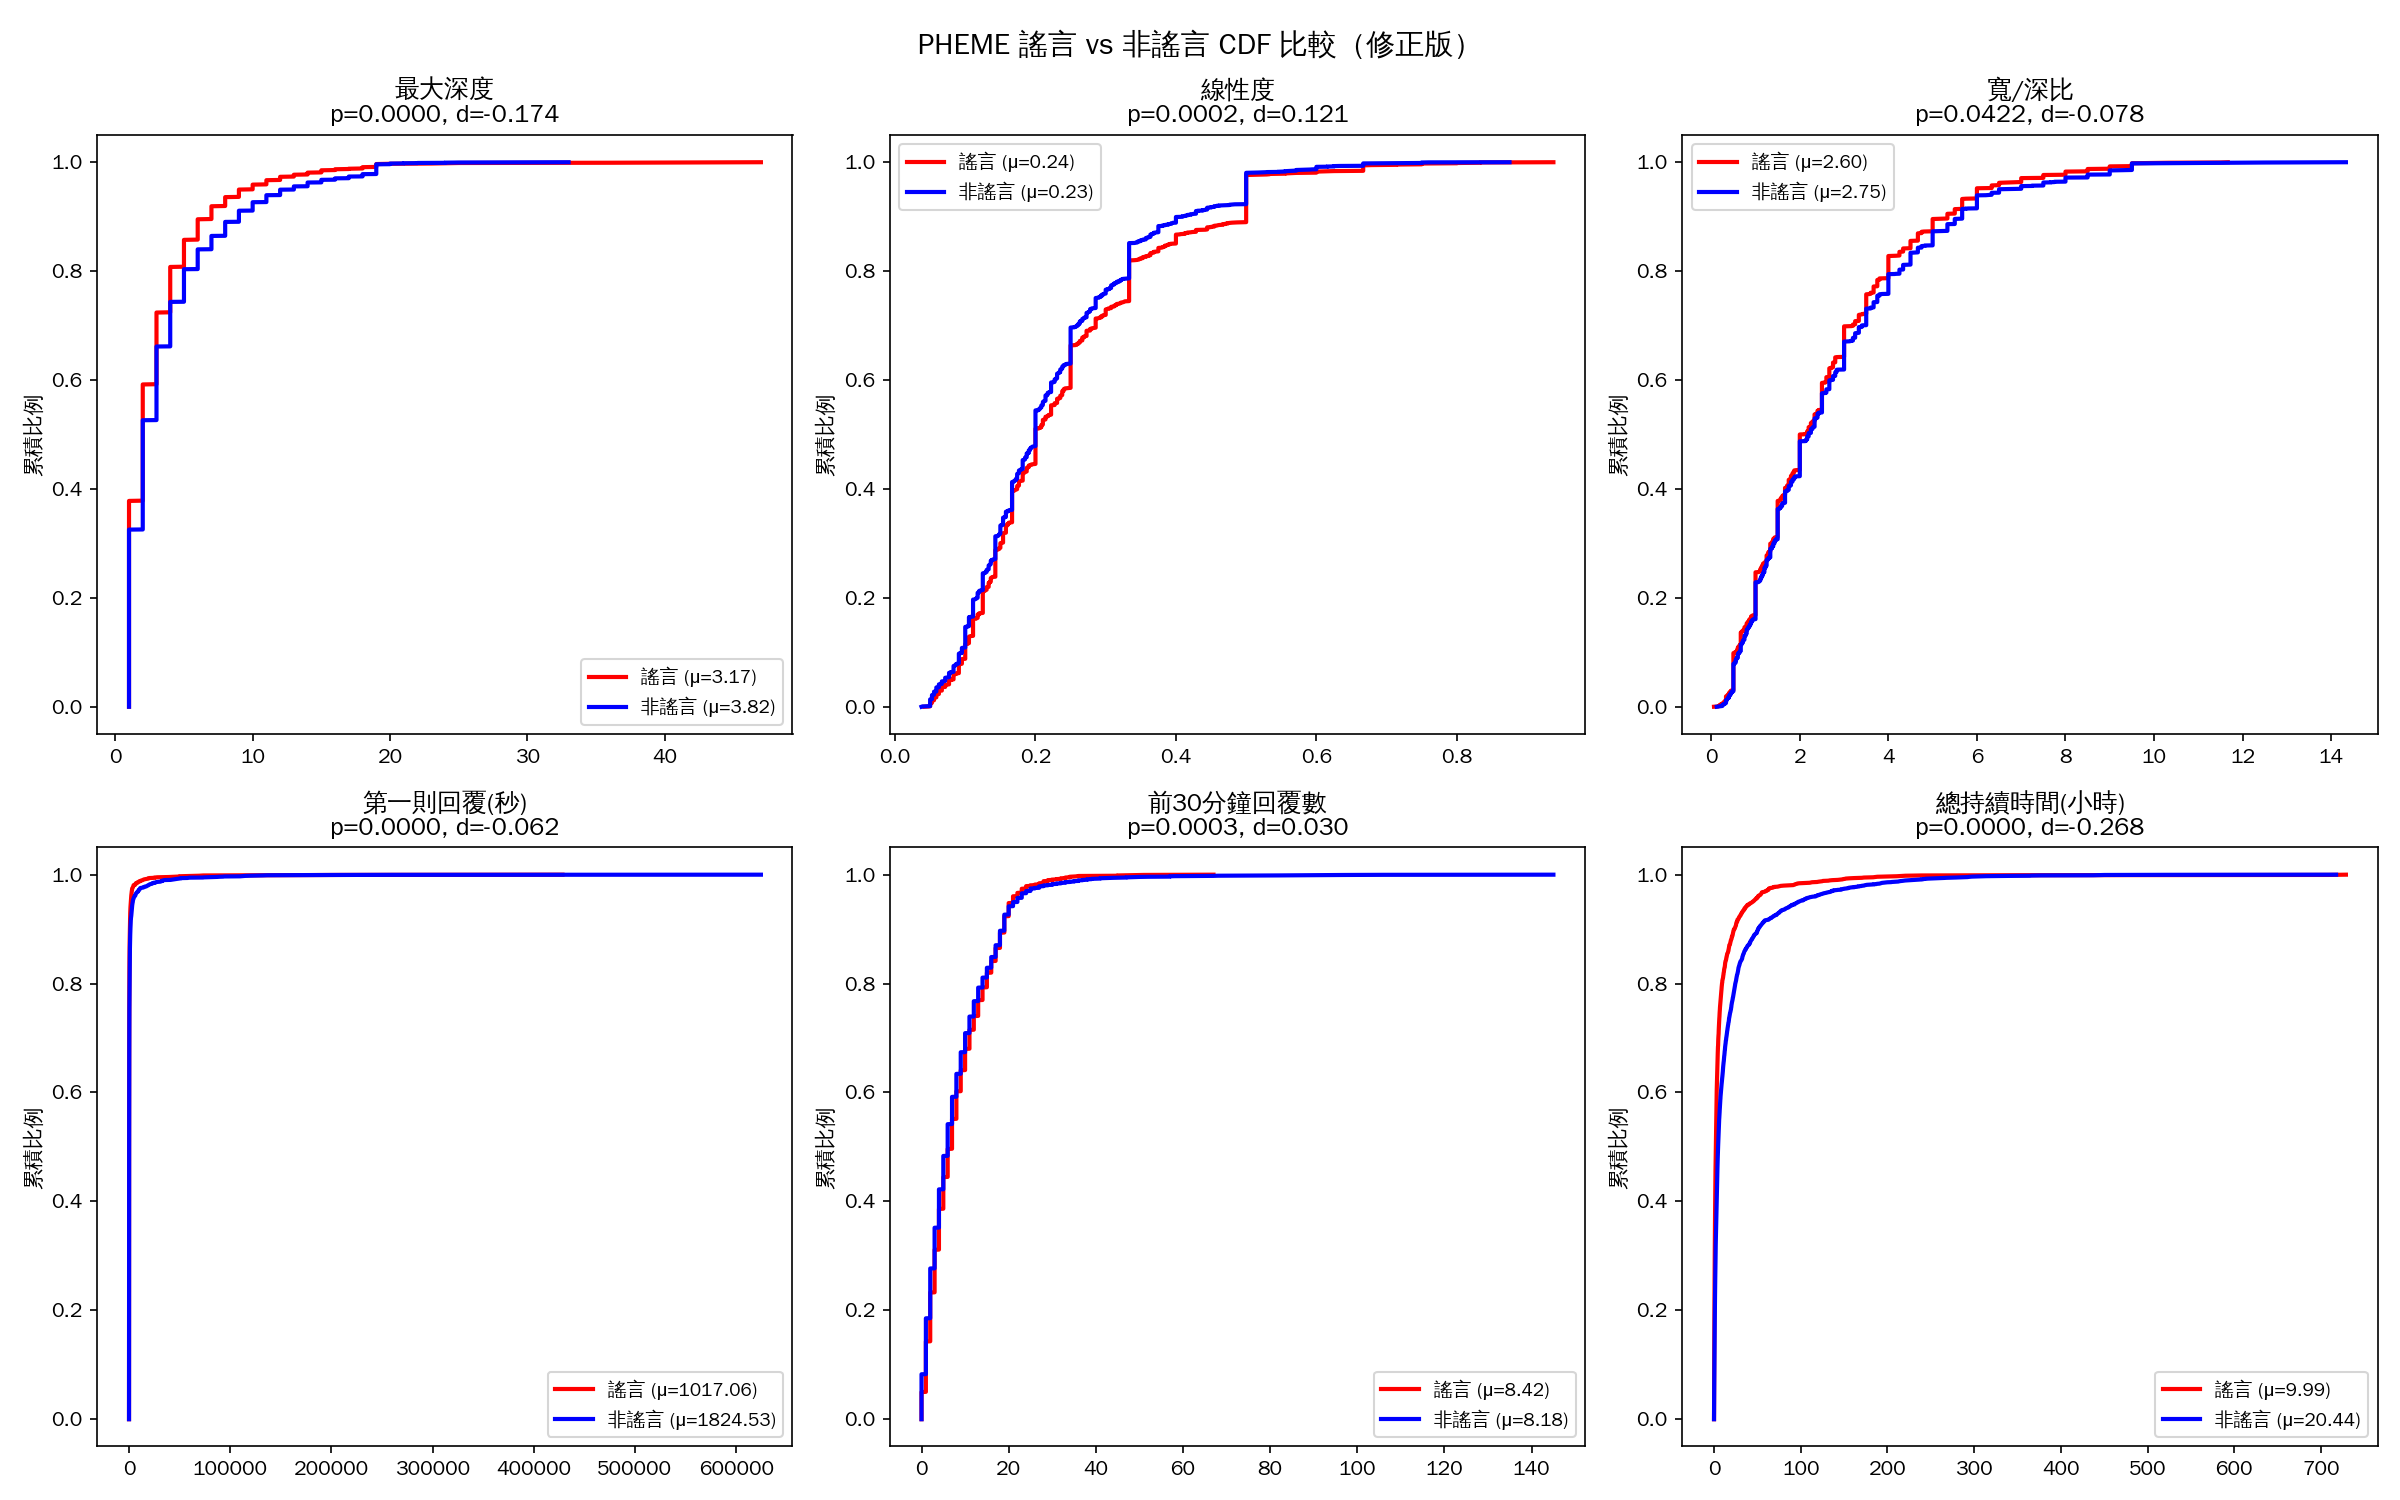
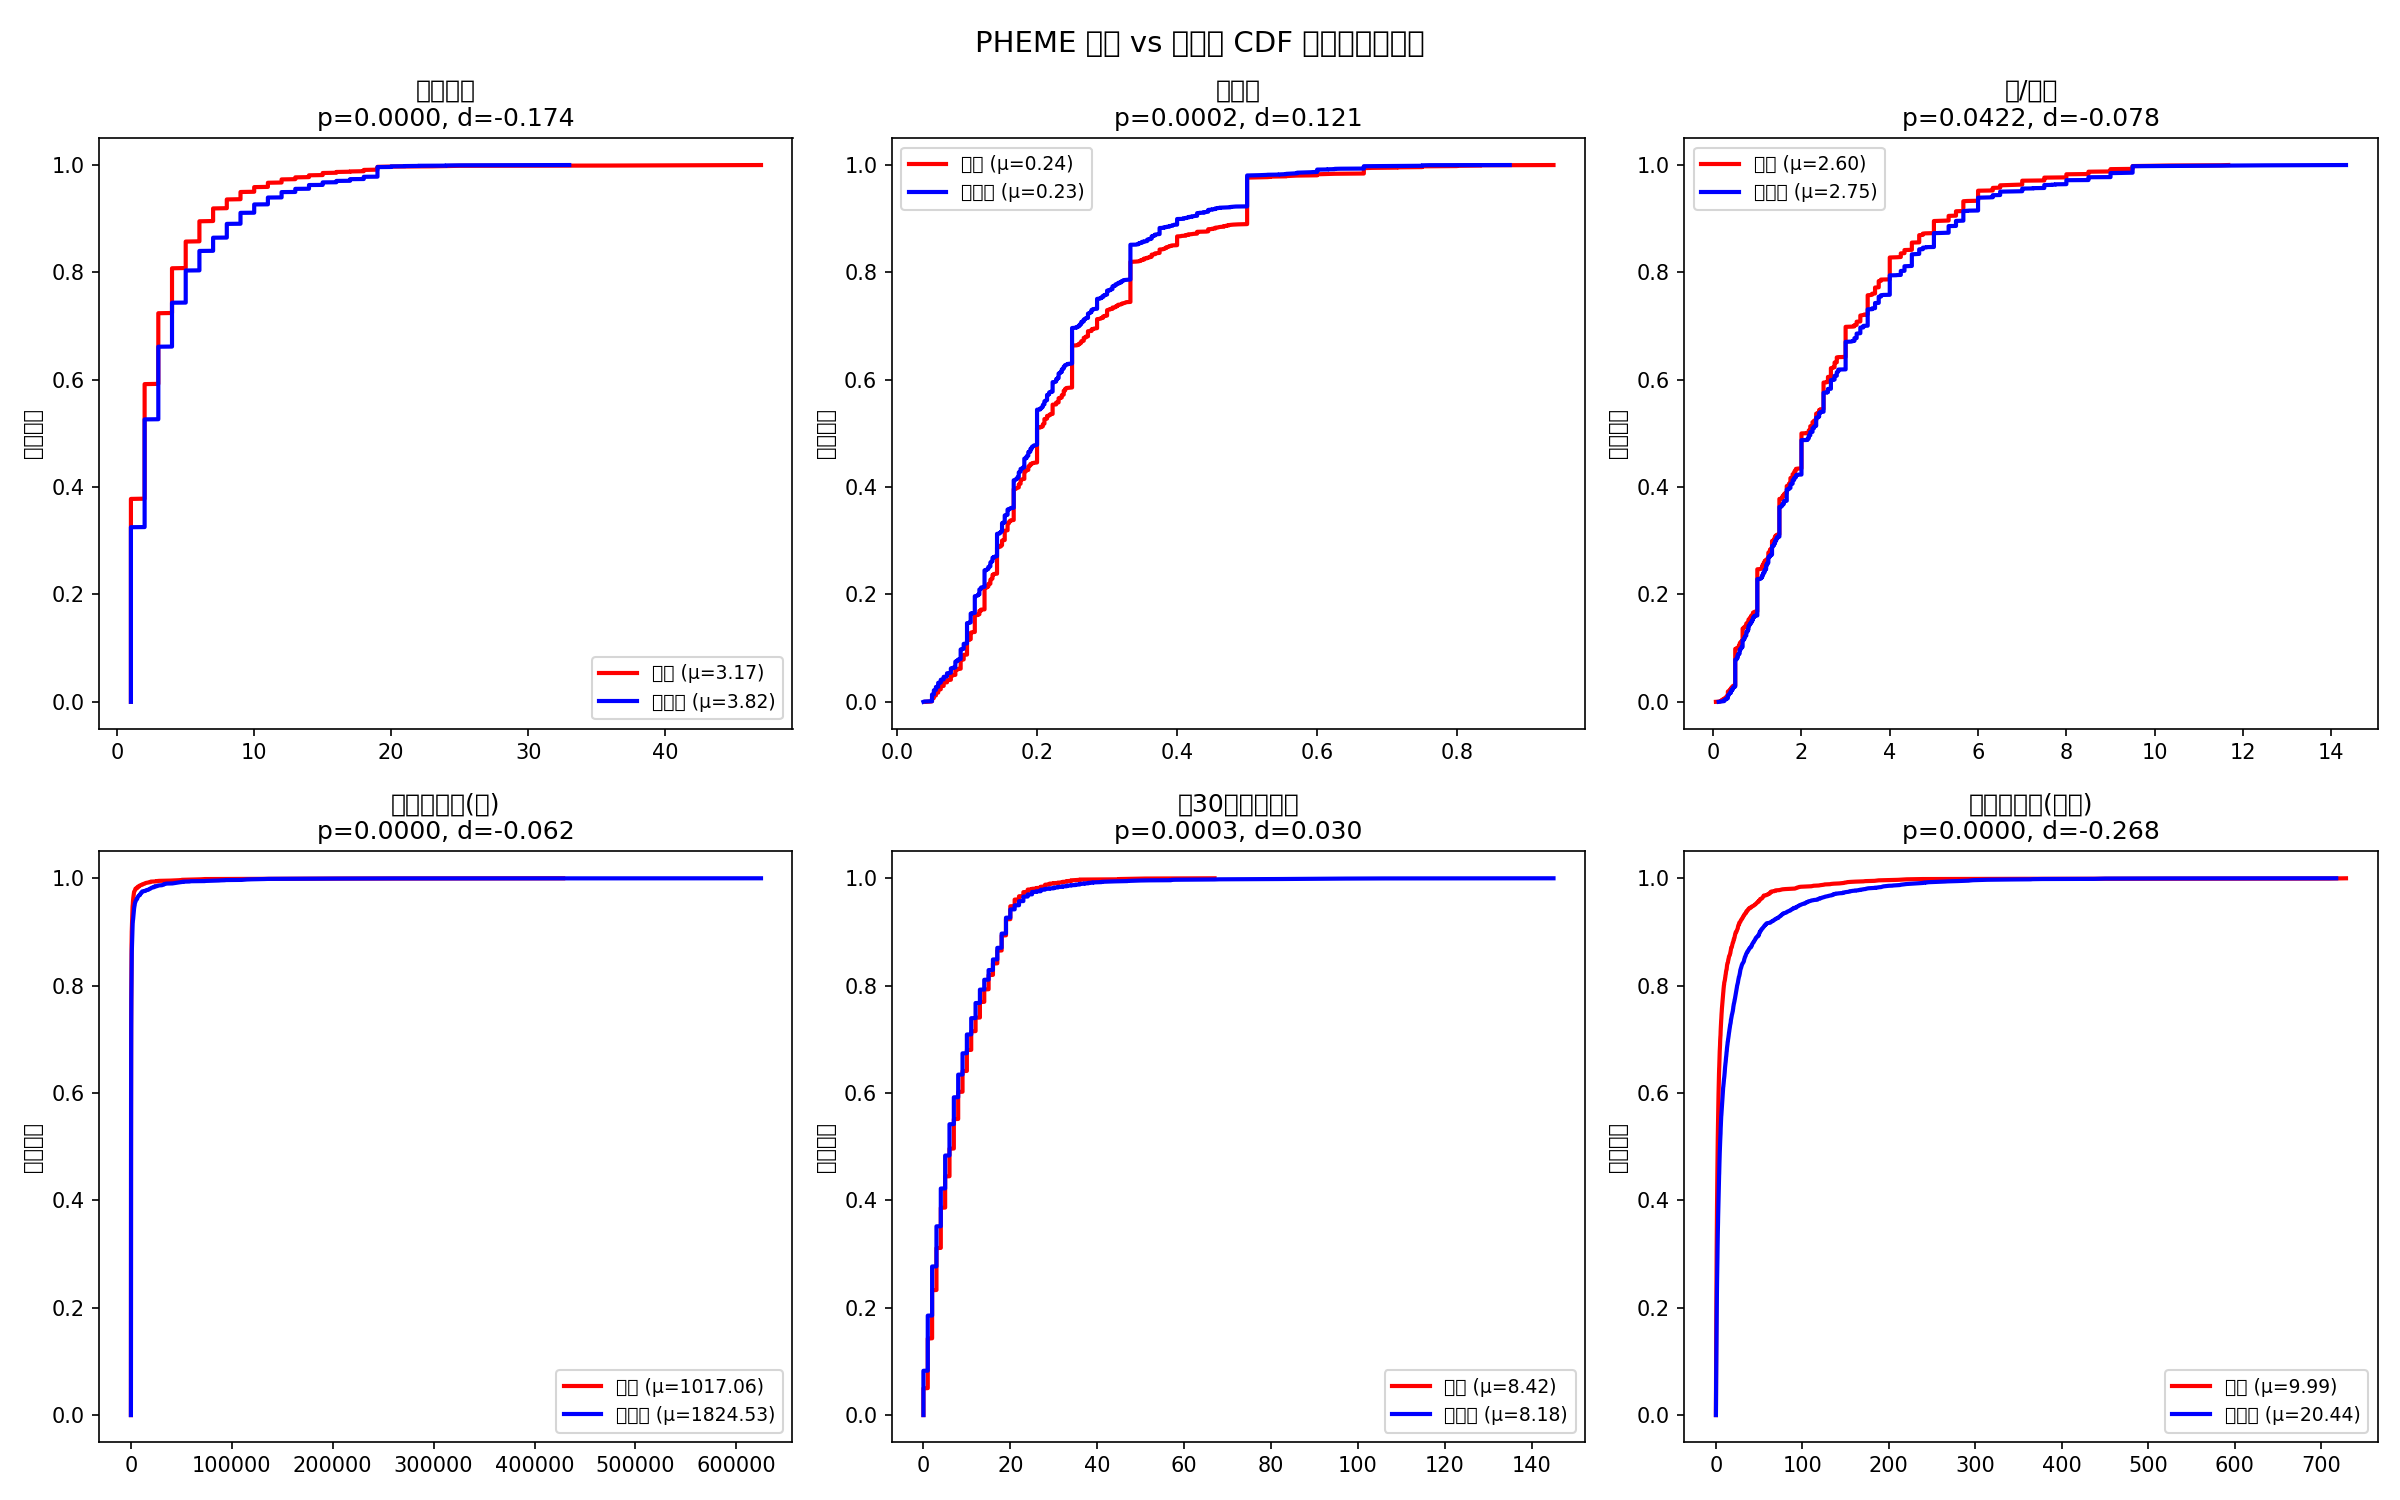
pheme analysis

diff --git a/pheme_analysis/pheme_retrospective_analysis.py b/pheme_analysis/pheme_retrospective_analysis.py
@@ -1,0 +1,305 @@
+"""
+PHEME Retrospective Feature Analysis Pipeline
+===============================================
+研究問題：在完整 thread 結束後，rumour 與 non-rumour 是否在結構、
+時間動態、情感特徵上存在可觀測差異？
+
+本腳本執行：
+1. 描述統計 (median, IQR, mean, std) — 依 rumour label 分組
+2. Mann-Whitney U test (兩組獨立樣本，無母數)
+3. Benjamini-Hochberg FDR 校正 (控制多重比較的偽發現率)
+4. Cliff's delta 效果量 (非母數，對離群值穩健)
+5. Boxplot / Violin plot / ECDF plot (長尾特徵先 log1p 只用於視覺化)
+6. 綜合排序：哪些特徵最能區分 rumour / non-rumour
+
+重要原則：
+- 統計檢定 (Mann-Whitney) 使用原始尺度，因為它基於排序，對單調轉換具不變性。
+- log1p 僅用於畫圖，不用於檢定，避免混淆「視覺呈現」與「統計推論」。
+- 判斷特徵是否重要，以效果量 (Cliff's delta) 為主，p-value 只用來說明
+  「差異是否穩定到不像雜訊」，不能單獨用來說明「差異有多大」。
+"""
+
+import numpy as np
+import pandas as pd
+from scipy import stats
+from statsmodels.stats.multitest import multipletests
+import matplotlib.pyplot as plt
+import seaborn as sns
+from pathlib import Path
+
+# ------------------------------------------------------------------
+# 0. 設定
+# ------------------------------------------------------------------
+
+STRUCTURE_FEATURES = [
+    "max_depth", "total_nodes", "max_width", "leaf_ratio",
+    "avg_branching", "linearity", "width_depth_ratio",
+]
+TEMPORAL_FEATURES = [
+    "first_reply_sec", "early_30min_count", "early_60min_count",
+    "total_duration_hr", "burst_ratio",
+]
+SENTIMENT_FEATURES = [
+    "sent_mean", "sent_std", "sent_min",
+    "neg_ratio", "avg_negative", "avg_positive",
+]
+ALL_FEATURES = STRUCTURE_FEATURES + TEMPORAL_FEATURES + SENTIMENT_FEATURES
+
+# 长尾特徵：畫圖時建議先 log1p 再呈現 (只影響視覺化，不影響統計檢定)
+LONG_TAIL_FEATURES = [
+    "total_nodes", "max_width", "total_duration_hr",
+    "first_reply_sec", "early_30min_count", "early_60min_count",
+    "burst_ratio",
+]
+
+LABEL_COL = "is_rumour"  # 1 = rumour, 0 = non-rumour，請依你的資料欄位名稱調整
+
+OUTPUT_DIR = Path("pheme_analysis_outputs")
+OUTPUT_DIR.mkdir(exist_ok=True)
+
+
+# ------------------------------------------------------------------
+# 1. Cliff's Delta 實作
+# ------------------------------------------------------------------
+
+def cliffs_delta(x: np.ndarray, y: np.ndarray) -> float:
+    """
+    計算 Cliff's delta 效果量。
+    delta = P(X > Y) - P(X < Y)，範圍 [-1, 1]。
+    正值代表 x 組傾向大於 y 組，負值相反，0 代表無差異。
+
+    使用 O(n log n) 的排序法計算，而非暴力 O(n*m)，
+    避免大樣本 (PHEME thread 數量多) 時運算過慢。
+    """
+    x = np.asarray(x)
+    y = np.asarray(y)
+    nx, ny = len(x), len(y)
+    if nx == 0 or ny == 0:
+        return np.nan
+
+    combined = np.concatenate([x, y])
+    ranks = stats.rankdata(combined)
+    rank_x = ranks[:nx]
+
+    # 利用 rank-biserial 與 Mann-Whitney U 的關係反推 Cliff's delta
+    # delta = 2*U/(nx*ny) - 1，其中 U 為 x 相對於 y 的 Mann-Whitney U 統計量
+    sum_rank_x = np.sum(rank_x)
+    u_x = sum_rank_x - nx * (nx + 1) / 2
+    delta = 2 * u_x / (nx * ny) - 1
+    return delta
+
+
+def interpret_cliffs_delta(delta: float) -> str:
+    """Romano et al. (2006) 的慣例判讀門檻。"""
+    d = abs(delta)
+    if d < 0.147:
+        return "negligible"
+    elif d < 0.33:
+        return "small"
+    elif d < 0.474:
+        return "medium"
+    else:
+        return "large"
+
+
+# ------------------------------------------------------------------
+# 2. 描述統計
+# ------------------------------------------------------------------
+
+def compute_descriptive_stats(df: pd.DataFrame, features: list, label_col: str) -> pd.DataFrame:
+    """對每個特徵，依 rumour/non-rumour 分組計算 median, IQR, mean, std。"""
+    rows = []
+    for feat in features:
+        for label, name in [(1, "rumour"), (0, "non_rumour")]:
+            vals = df.loc[df[label_col] == label, feat].dropna()
+            q1, median, q3 = np.percentile(vals, [25, 50, 75])
+            rows.append({
+                "feature": feat,
+                "group": name,
+                "n": len(vals),
+                "mean": vals.mean(),
+                "std": vals.std(),
+                "median": median,
+                "IQR": q3 - q1,
+                "q1": q1,
+                "q3": q3,
+            })
+    return pd.DataFrame(rows)
+
+
+# ------------------------------------------------------------------
+# 3. 假設檢定 + 效果量 + FDR 校正
+# ------------------------------------------------------------------
+
+def run_hypothesis_tests(df: pd.DataFrame, features: list, label_col: str) -> pd.DataFrame:
+    """
+    對每個特徵執行 Mann-Whitney U test，並計算 Cliff's delta。
+    最後統一做 Benjamini-Hochberg FDR 校正。
+    """
+    results = []
+    for feat in features:
+        rumour_vals = df.loc[df[label_col] == 1, feat].dropna().values
+        nonrumour_vals = df.loc[df[label_col] == 0, feat].dropna().values
+
+        # Mann-Whitney U test（雙尾，無母數）
+        u_stat, p_val = stats.mannwhitneyu(
+            rumour_vals, nonrumour_vals, alternative="two-sided"
+        )
+
+        delta = cliffs_delta(rumour_vals, nonrumour_vals)
+
+        results.append({
+            "feature": feat,
+            "n_rumour": len(rumour_vals),
+            "n_nonrumour": len(nonrumour_vals),
+            "U_statistic": u_stat,
+            "p_value_raw": p_val,
+            "cliffs_delta": delta,
+            "effect_size_interpretation": interpret_cliffs_delta(delta),
+        })
+
+    result_df = pd.DataFrame(results)
+
+    # Benjamini-Hochberg FDR 校正（一次對所有特徵的 p-value 做校正）
+    reject, p_adj, _, _ = multipletests(
+        result_df["p_value_raw"], alpha=0.05, method="fdr_bh"
+    )
+    result_df["p_value_fdr"] = p_adj
+    result_df["significant_after_fdr"] = reject
+
+    # 綜合判斷：統計顯著 且 效果量至少 small 才算「有實質意義的差異」
+    result_df["practically_meaningful"] = (
+        result_df["significant_after_fdr"]
+        & (result_df["cliffs_delta"].abs() >= 0.147)
+    )
+
+    return result_df.sort_values("cliffs_delta", key=lambda s: s.abs(), ascending=False)
+
+
+# ------------------------------------------------------------------
+# 4. 視覺化
+# ------------------------------------------------------------------
+
+def plot_feature_comparison(df: pd.DataFrame, feature: str, label_col: str,
+                             use_log: bool, output_dir: Path):
+    """
+    對單一特徵畫出 boxplot、violin plot、ECDF 三合一圖。
+    use_log=True 時，只在畫圖時做 log1p 轉換，圖標題會註明。
+    """
+    fig, axes = plt.subplots(1, 3, figsize=(15, 4))
+
+    plot_df = df[[feature, label_col]].dropna().copy()
+    plot_df["group"] = plot_df[label_col].map({1: "rumour", 0: "non_rumour"})
+
+    if use_log:
+        plot_df["plot_value"] = np.log1p(plot_df[feature])
+        value_label = f"log1p({feature})"
+    else:
+        plot_df["plot_value"] = plot_df[feature]
+        value_label = feature
+
+    # Boxplot
+    sns.boxplot(data=plot_df, x="group", y="plot_value", ax=axes[0],
+                hue="group", palette="Set2", legend=False)
+    axes[0].set_title(f"Boxplot: {value_label}")
+    axes[0].set_ylabel(value_label)
+
+    # Violin plot
+    sns.violinplot(data=plot_df, x="group", y="plot_value", ax=axes[1],
+                    hue="group", palette="Set2", legend=False, inner="quartile")
+    axes[1].set_title(f"Violin: {value_label}")
+    axes[1].set_ylabel(value_label)
+
+    # ECDF
+    for group, color in [("rumour", "#e74c3c"), ("non_rumour", "#3498db")]:
+        vals = np.sort(plot_df.loc[plot_df["group"] == group, "plot_value"])
+        y = np.arange(1, len(vals) + 1) / len(vals)
+        axes[2].plot(vals, y, label=group, color=color)
+    axes[2].set_title(f"ECDF: {value_label}")
+    axes[2].set_xlabel(value_label)
+    axes[2].set_ylabel("cumulative probability")
+    axes[2].legend()
+
+    plt.suptitle(f"Feature: {feature}" + (" (log1p scale for visualization only)" if use_log else ""))
+    plt.tight_layout()
+    fig.savefig(output_dir / f"{feature}_comparison.png", dpi=150)
+    plt.close(fig)
+
+
+def generate_all_plots(df: pd.DataFrame, features: list, label_col: str, output_dir: Path):
+    for feat in features:
+        use_log = feat in LONG_TAIL_FEATURES
+        plot_feature_comparison(df, feat, label_col, use_log, output_dir)
+    print(f"圖表已輸出至：{output_dir.resolve()}")
+
+
+def plot_effect_size_summary(result_df: pd.DataFrame, output_dir: Path):
+    """畫出所有特徵的 Cliff's delta 排序條狀圖，一眼看出哪些特徵區辨力較強。"""
+    fig, ax = plt.subplots(figsize=(8, max(4, 0.35 * len(result_df))))
+    plot_data = result_df.sort_values("cliffs_delta")
+    colors = ["#2ecc71" if m else "#95a5a6" for m in plot_data["practically_meaningful"]]
+    ax.barh(plot_data["feature"], plot_data["cliffs_delta"], color=colors)
+    ax.axvline(0, color="black", linewidth=0.8)
+    ax.axvline(0.147, color="gray", linestyle="--", linewidth=0.8, label="small effect threshold")
+    ax.axvline(-0.147, color="gray", linestyle="--", linewidth=0.8)
+    ax.set_xlabel("Cliff's delta (rumour vs non-rumour)")
+    ax.set_title("Effect size summary\n(green = significant after FDR AND effect size ≥ small)")
+    ax.legend()
+    plt.tight_layout()
+    fig.savefig(output_dir / "effect_size_summary.png", dpi=150)
+    plt.close(fig)
+
+
+# ------------------------------------------------------------------
+# 5. 主流程
+# ------------------------------------------------------------------
+
+def run_full_analysis(df: pd.DataFrame, label_col: str = LABEL_COL):
+    """
+    輸入：df 需包含 ALL_FEATURES 欄位 + label_col (1=rumour, 0=non-rumour)
+    輸出：描述統計表、檢定結果表、圖表，並印出最終排序摘要
+    """
+    print("=" * 60)
+    print("Step 1: 描述統計")
+    print("=" * 60)
+    desc_stats = compute_descriptive_stats(df, ALL_FEATURES, label_col)
+    desc_stats.to_csv(OUTPUT_DIR / "descriptive_stats.csv", index=False)
+    print(desc_stats.round(3).to_string(index=False))
+
+    print("\n" + "=" * 60)
+    print("Step 2-4: Mann-Whitney U + Cliff's delta + BH-FDR 校正")
+    print("=" * 60)
+    test_results = run_hypothesis_tests(df, ALL_FEATURES, label_col)
+    test_results.to_csv(OUTPUT_DIR / "hypothesis_test_results.csv", index=False)
+    print(test_results.round(4).to_string(index=False))
+
+    print("\n" + "=" * 60)
+    print("Step 6: 視覺化")
+    print("=" * 60)
+    generate_all_plots(df, ALL_FEATURES, label_col, OUTPUT_DIR)
+    plot_effect_size_summary(test_results, OUTPUT_DIR)
+
+    print("\n" + "=" * 60)
+    print("Step 8: 綜合排序摘要（依效果量絕對值排序）")
+    print("=" * 60)
+    meaningful = test_results[test_results["practically_meaningful"]]
+    if len(meaningful) == 0:
+        print("⚠ 沒有特徵同時滿足「FDR校正後顯著」且「效果量 ≥ small」。")
+        print("   這代表 rumour / non-rumour 在這組特徵上即使有統計顯著差異，")
+        print("   實質區辨力也非常有限，不建議直接宣稱可用於分類。")
+    else:
+        print(meaningful[["feature", "cliffs_delta", "effect_size_interpretation",
+                           "p_value_fdr"]].round(4).to_string(index=False))
+
+    return desc_stats, test_results
+
+
+# ------------------------------------------------------------------
+# 使用範例（請將 df 換成你實際讀取 PHEME 特徵後的 DataFrame）
+# ------------------------------------------------------------------
+
+if __name__ == "__main__":
+    df = pd.read_csv(".csv")
+    desc_stats, test_results = run_full_analysis(df, label_col="is_rumour")
+    print("請將此腳本 import 到你的 notebook，並傳入包含以下欄位的 DataFrame：")
+    print(ALL_FEATURES + [LABEL_COL])

diff --git a/pheme_analysis/main.py b/pheme_analysis/main.py
@@ -1,0 +1,4 @@
+from pheme_retrospective_analysis import run_full_analysis
+
+if __name__ == "__main__":
+    desc_stats, test_results = run_full_analysis(df, label_col="is_rumour")
